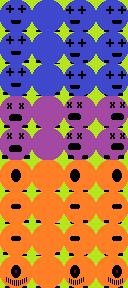
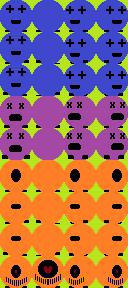
Added WaitWatch enemy

Changed region(s): [[0.25, 0.875, 0.5, 1.0]]

diff --git a/sprites.py b/sprites.py
@@ -682,7 +682,7 @@ class WaitWatch(Enemy):
         self.width = TILE_SIZE
         self.height = TILE_SIZE
 
-        self.image = self.game.enemy_sheet.get_sprite(0, 96, self.width, self.height)
+        self.image = self.game.enemy_sheet.get_sprite(0, 160, self.width, self.height)
         self.image.set_colorkey(NASTY_GREEN)
 
         self.rect = self.image.get_rect()
@@ -691,39 +691,57 @@ class WaitWatch(Enemy):
 
         self.movement_start = 0
         self.movement_end = 0
-        self.speed = 2
+        self.speed = 1
         self.facing = DOWN
         self.watching = False
 
         self.down_animations = [
-            self.game.enemy_sheet.get_sprite(0, 96, self.width, self.height),
-            self.game.enemy_sheet.get_sprite(0, 128, self.width, self.height),
+            self.game.enemy_sheet.get_sprite(0, 160, self.width, self.height),
+            self.game.enemy_sheet.get_sprite(0, 192, self.width, self.height),
+            self.game.enemy_sheet.get_sprite(0, 224, self.width, self.height),
         ]
         self.up_animations = [
-            self.game.enemy_sheet.get_sprite(32, 96, self.width, self.height),
-            self.game.enemy_sheet.get_sprite(32, 128, self.width, self.height),
+            self.game.enemy_sheet.get_sprite(32, 160, self.width, self.height),
+            self.game.enemy_sheet.get_sprite(32, 192, self.width, self.height),
+            self.game.enemy_sheet.get_sprite(32, 224, self.width, self.height),
         ]
         self.left_animations = [
-            self.game.enemy_sheet.get_sprite(64, 96, self.width, self.height),
-            self.game.enemy_sheet.get_sprite(64, 128, self.width, self.height),
+            self.game.enemy_sheet.get_sprite(64, 160, self.width, self.height),
+            self.game.enemy_sheet.get_sprite(64, 192, self.width, self.height),
+            self.game.enemy_sheet.get_sprite(64, 224, self.width, self.height),
         ]
         self.right_animations = [
-            self.game.enemy_sheet.get_sprite(96, 96, self.width, self.height),
-            self.game.enemy_sheet.get_sprite(96, 128, self.width, self.height),
+            self.game.enemy_sheet.get_sprite(96, 160, self.width, self.height),
+            self.game.enemy_sheet.get_sprite(96, 192, self.width, self.height),
+            self.game.enemy_sheet.get_sprite(96, 224, self.width, self.height),
         ]
+        self.evil_face = self.game.enemy_sheet.get_sprite(32, 256, self.width, self.height)
 
+        self.animation_frame = 16
         self.directions = [DOWN, UP, LEFT, RIGHT]
 
     def update(self):
         """
-        Update GrimLeaper.
+        Update WaitWatch
         """
         self.collide_player()
+        if self.in_eyeshot():
+            self.image = self.evil_face
+            return
+
         if int(self.movement_start) == self.movement_end and self.movement_delay < pygame.time.get_ticks():
-            self.movement_start, self.movement_end, self.movement_delay = 0, 64, 0
+            self.movement_start, self.movement_end, self.movement_delay = 0, 32, 0
             self.change_direction()
+
             if self.collide_block():  # If no collision, animate movement
                 self.movement_start, self.movement_end, self.movement_delay = 0, 0, 0
+
+            seed = int(rd.random() * 100)
+            if seed > 50:
+                self.movement_start, self.movement_end = 0, 0
+                self.movement_delay = pygame.time.get_ticks() + 3000
+                self.stationary()
+
         elif self.movement_start != self.movement_end:
             self.watching = False
             self.animate_movement()
@@ -743,13 +761,13 @@ class WaitWatch(Enemy):
         Resets GrimLeaper's sprite to stationary
         """
         if self.facing == DOWN:
-            self.image = self.game.enemy_sheet.get_sprite(0, 96, self.width, self.height)
+            self.image = self.game.enemy_sheet.get_sprite(0, 160, self.width, self.height)
         elif self.facing == UP:
-            self.image = self.game.enemy_sheet.get_sprite(32, 96, self.width, self.height)
+            self.image = self.game.enemy_sheet.get_sprite(32, 160, self.width, self.height)
         elif self.facing == LEFT:
-            self.image = self.game.enemy_sheet.get_sprite(64, 96, self.width, self.height)
+            self.image = self.game.enemy_sheet.get_sprite(64, 160, self.width, self.height)
         elif self.facing == RIGHT:
-            self.image = self.game.enemy_sheet.get_sprite(96, 96, self.width, self.height)
+            self.image = self.game.enemy_sheet.get_sprite(96, 160, self.width, self.height)
         self.watching = True
 
     def is_watching(self):
@@ -762,21 +780,24 @@ class WaitWatch(Enemy):
         hits = None
         if self.facing == UP:
             self.rect.y -= self.movement_end
-            hits = pygame.sprite.spritecollide(self, self.game.blocks, False)
+            hits = self.collision(self.game.blocks)
             self.rect.y += self.movement_end
         elif self.facing == DOWN:
             self.rect.y += self.movement_end
-            hits = pygame.sprite.spritecollide(self, self.game.blocks, False)
+            hits = self.collision(self.game.blocks)
             self.rect.y -= self.movement_end
         elif self.facing == RIGHT:
             self.rect.x += self.movement_end
-            hits = pygame.sprite.spritecollide(self, self.game.blocks, False)
+            hits = self.collision(self.game.blocks)
             self.rect.x -= self.movement_end
         elif self.facing == LEFT:
             self.rect.x -= self.movement_end
-            hits = pygame.sprite.spritecollide(self, self.game.blocks, False)
+            hits = self.collision(self.game.blocks)
             self.rect.x += self.movement_end
         return True if hits else False
+
+    def collision(self, object):
+        return pygame.sprite.spritecollide(self, object, False)
 
     def animate_movement(self):
         """
@@ -794,36 +815,70 @@ class WaitWatch(Enemy):
 
     def move_down(self):
         """
-        Move GrimLeaper down
+        Move WaddleBug down
         """
-        if self.movement_start == 0:
-            self.image = self.game.enemy_sheet.get_sprite(0, 128, self.width, self.height)
-
+        if self.movement_start < self.animation_frame:
+            self.image = self.game.enemy_sheet.get_sprite(0, 192, self.width, self.height)
+        else:
+            self.image = self.game.enemy_sheet.get_sprite(0, 224, self.width, self.height)
         self.rect.y += self.speed
 
     def move_up(self):
         """
-        Move GrimLeaper up
+        Move WaddleBug up
         """
-        if self.movement_start == 0:
-            self.image = self.game.enemy_sheet.get_sprite(32, 128, self.width, self.height)
+        if self.movement_start < self.animation_frame:
+            self.image = self.game.enemy_sheet.get_sprite(32, 192, self.width, self.height)
+        else:
+            self.image = self.game.enemy_sheet.get_sprite(32, 224, self.width, self.height)
         self.rect.y -= self.speed
 
     def move_left(self):
         """
-        Move GrimLeaper left
+        Move WaddleBug left
         """
-        if self.movement_start == 0:
-            self.image = self.game.enemy_sheet.get_sprite(64, 128, self.width, self.height)
+        if self.movement_start < self.animation_frame:
+            self.image = self.game.enemy_sheet.get_sprite(64, 192, self.width, self.height)
+        else:
+            self.image = self.game.enemy_sheet.get_sprite(64, 224, self.width, self.height)
         self.rect.x -= self.speed
 
     def move_right(self):
         """
-        Move GrimLeaper right
+        Move WaddleBug right
         """
-        if self.movement_start == 0:
-            self.image = self.game.enemy_sheet.get_sprite(96, 128, self.width, self.height)
+        if self.movement_start < self.animation_frame:
+            self.image = self.game.enemy_sheet.get_sprite(96, 192, self.width, self.height)
+        else:
+            self.image = self.game.enemy_sheet.get_sprite(96, 224, self.width, self.height)
         self.rect.x += self.speed
+
+    def in_eyeshot(self):
+        if self.watching:
+            if self.facing == DOWN:
+                return self.look_for_player('y', 32)
+            elif self.facing == UP:
+                return self.look_for_player('y', -32)
+            elif self.facing == LEFT:
+                return self.look_for_player('x', -32)
+            elif self.facing == RIGHT:
+                return self.look_for_player('x', 32)
+        return False
+
+    def look_for_player(self, direction, amount):
+        if direction == 'x':
+            for tile in range(1, 6):
+                self.rect.x += tile * amount
+                if self.is_hitting_player():
+                    return True
+                self.rect.x -= tile * amount
+        if direction == 'y':
+            for tile in range(1, 6):
+                self.rect.y += tile * amount
+                if self.is_hitting_player():
+                    return True
+                self.rect.y -= tile * amount
+        return False
 
 
 class Block(pygame.sprite.Sprite):

diff --git a/game.py b/game.py
@@ -55,12 +55,12 @@ class Game:
         self.sprite_key = {'.': Ground,
                            'B': Block,
                            'S': ShopKeep,
-                           'Eb': WaddleBug,
-                           'Ep': GrimLeaper,
-                           'Ew': None,
-                           'Ef': None,
-                           'Eg': None,
-                           'Ez': None,
+                           'Ewb': WaddleBug,
+                           'Egl': GrimLeaper,
+                           'Eww': WaitWatch,
+                           'Efe': None,
+                           'Egf': None,
+                           'Ezm': None,
                            'Ch': Cherry,
                            'Ba': Banana,
                            'Me': Melon,

diff --git a/level_generation.py b/level_generation.py
@@ -297,7 +297,7 @@ def place_enemies(matrix, rows, columns):
     """
     Randomly places enemies in the dungeon room.
     """
-    enemies = ['Ep']
+    enemies = ['Eww']
     n = get_total_enemies()
     for i in range(0, n):
         r = math.floor(rd.random() * (rows - 24))
